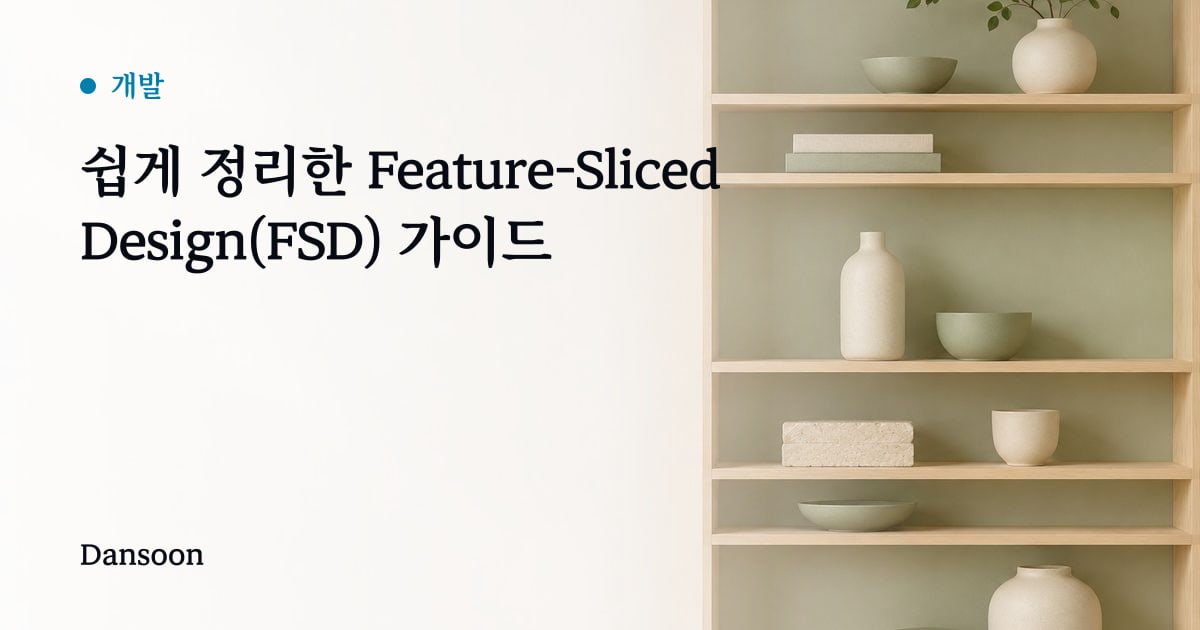
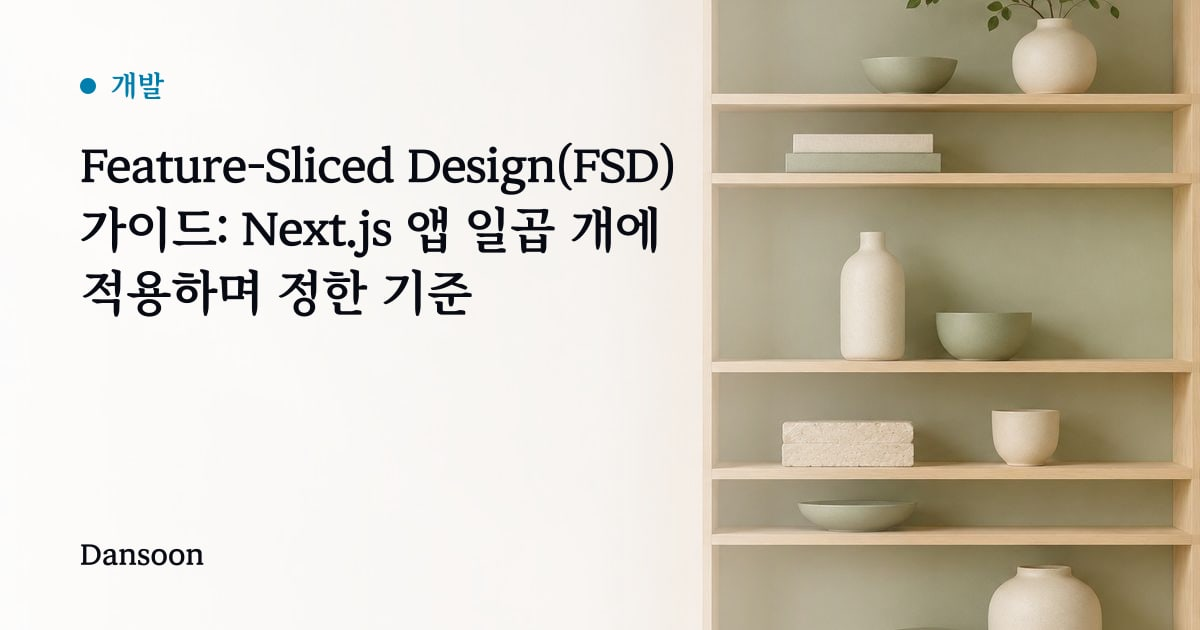
docs(dansoon): FSD 가이드를 지금 기준으로 다시 쓰기
- 일반론·중복 목록을 빼고 Next.js 앱 일곱 개에 쓰는 기준을 추가
- '의존성 역전' 오용 수정, 같은 레이어 슬라이스 교차 import 금지 규칙 추가
- 세그먼트 이름 규칙을 공식 문서 기준으로 수정(직접 만든 이름 허용, 목적 기준)
- 2026-06 공식 Next.js 가이드(_app·_pages), Next.js 16 proxy.ts, index.server.ts 반영
- FSD 글 6편 읽는 순서 추가, 제목 변경에 맞춰 썸네일 재생성

Changed region(s): [[0.0617, 0.2111, 0.6167, 0.5127]]

diff --git a/apps/dansoon/contents/posts/fsd-guide/index.md b/apps/dansoon/contents/posts/fsd-guide/index.md
@@ -1,8 +1,8 @@
 ---
-title: "쉽게 정리한 Feature-Sliced Design(FSD) 가이드"
-description: "Feature-Sliced Design의 레이어와 세그먼트, 의존성 규칙을 쉽게 정리하고, Next.js에 적용할 때 부딪힌 문제와 해결책을 함께 담았어요."
+title: "Feature-Sliced Design(FSD) 가이드: Next.js 앱 일곱 개에 적용하며 정한 기준"
+description: "FSD의 레이어·슬라이스·세그먼트와 import 규칙을 공식 문서 기준으로 정리하고, Next.js 앱 일곱 개에 적용하며 정한 기준과 부딪힌 문제를 담았어요. 2026년 바뀐 Next.js 가이드도 반영했어요."
 publishedAt: "2024-12-17T16:56:31+09:00"
-updatedAt: "2025-07-29T15:33:28+09:00"
+updatedAt: "2026-11-09T18:00:00+09:00"
 category: "dev"
 tags: ["fsd","architecture"]
 legacyUrl: "https://dansoon-dev.tistory.com/13"
@@ -10,295 +10,130 @@ thumbnail: "./thumbnail.jpg"
 cover: "./cover.jpg"
 ---
 
-## 들어가며
+> 2024년 12월에 쓴 글을 2026년 11월에 다시 썼다. 그사이 FSD는 2.1이 됐고, 공식 Next.js 가이드와 Next.js의 파일 규칙도 바뀌었다. 지금 쓰는 기준과 바뀐 내용을 반영했다.
 
-프론트엔드 프로젝트의 규모가 커지면 코드 구조화가 더 중요해진다. 기능을 구현하는 것만이 아니라, 시스템 아키텍처가 비즈니스 요구사항의 변화에 얼마나 유연하게 대응하는지가 프로젝트의 장기적 성공을 좌우한다. 이를 위해 구조화된 설계와 디자인 패턴을 적용하는 것이 프론트엔드 개발의 주요 흐름이 됐다.
+## 1. 왜 FSD였나
 
-컴포넌트 기반 아키텍처, 상태 관리 패턴, 모듈화 같은 접근 방식이 있지만 대규모 애플리케이션에서는 더 체계적인 구조화 방법론이 필요하다.
+2024년, 회사에서 PHP와 Vue로 만든 레거시 서비스를 Next.js로 옮기게 됐다. 기존 코드는 컴포넌트끼리 서로 깊게 얽혀 있었고, 같은 도메인 로직이 여러 곳에 흩어져 있었다. 새로 들어온 사람이 "이 기능은 어디를 고치면 되나"를 찾는 데만 한참 걸렸다.
 
-최근 PHP와 Vue로 작성된 레거시 애플리케이션을 Next.js로 마이그레이션하는 과정에서 우리 팀은 일관된 개발 패러다임을 확립하기 위해 Feature-Sliced Design(FSD) 방법론 도입을 결정하였다. FSD는 폴더 구조를 재배치하는 데 그치지 않고 비즈니스 도메인과 기술적 관심사를 분리하는 아키텍처 패러다임으로, React 생태계에서 검증된 확장성을 제공한다.
+옮기는 김에 폴더 구조의 기준부터 정하기로 했고, 그 기준으로 Feature-Sliced Design(FSD)을 골랐다. 폴더 이름과 import 방향을 규칙으로 정해 두면 "어디에 둘까"를 매번 토론하지 않아도 된다는 점이 컸다.
 
-FSD를 실제 프로젝트에 적용하면서 코드의 예측 가능성을 높이고 개발자 경험을 향상시켜, 비즈니스 요구사항에 더 빠르게 대응할 수 있는 기반을 마련하고자 한다. 특히 Next.js의 최신 기능과 FSD의 구조적 원칙을 결합해 성능과 유지보수성 모두를 최적화하는 아키텍처를 구축할 것이다.
+그 뒤로 개인 프로젝트 모노레포의 Next.js 앱 일곱 개도 전부 FSD로 나눴다. 아래 내용은 그 과정에서 정리한 것이다.
 
-## FSD란?
+## 2. 레이어 한눈에 보기
 
-Feature-Sliced Design은 프론트엔드 아키텍처 방법론으로, 비즈니스 로직을 기능(feature) 단위로 분할하고 계층화된 구조로 관리하는 접근 방식이다. 프로젝트의 복잡성을 관리하고, 코드의 재사용성과 유지보수성을 높이는 데 도움이 된다.
+FSD는 코드를 **레이어 → 슬라이스 → 세그먼트** 세 단계로 나눈다. 레이어는 위에서부터 이렇다.
 
-## 기본 원칙
+| 레이어 | 역할 | 예 |
+|---|---|---|
+| app | 앱 전역 설정 | 프로바이더, 전역 스타일 |
+| pages | 화면 하나 | 홈, 상품 상세 |
+| widgets | 여러 화면에서 쓰는 큰 UI 블록 | 헤더, 상품 목록 |
+| features | 사용자가 하는 행동 단위 기능 | 장바구니 담기, 필터 |
+| entities | 비즈니스 개념 | 상품, 사용자 |
+| shared | 도메인과 무관한 공용 코드 | UI 기본 요소, API 클라이언트 |
 
-1.  **책임 분리**: 각 레이어와 슬라이스는 명확한 책임을 가지며, 한 가지 일만 수행한다.
-2.  **의존성 역전**: 상위 레이어는 하위 레이어에 의존할 수 있지만, 그 반대는 불가능하다.
-3.  **공유 영역 제한**: shared 폴더는 신중하게 관리되어야 하며, 무분별한 공유를 지양한다.
-4.  **기능 격리**: 각 기능은 독립적으로 개발, 테스트, 재사용될 수 있어야 한다.
+예전에 있던 processes 레이어는 지금 폐지됐다. 공식 문서는 레이어 의미가 표준화돼 있으니 새 레이어를 추가하지 말라고 한다([Layers](https://fsd.how/docs/reference/layers/)).
 
-## FSD 도입 배경
+레이어 안은 **슬라이스**로 나뉜다. 슬라이스는 `product`, `cart`처럼 비즈니스 도메인으로 이름을 짓고, 이름 규칙은 따로 없다. 슬라이스 안은 다시 **세그먼트**로 나뉜다. 표준 세그먼트는 `ui`, `api`, `model`, `lib`, `config`이고, 필요하면 직접 만들어도 된다. 대신 이름은 내용물의 종류가 아니라 목적을 나타내야 한다. 공식 문서는 `components`, `hooks`, `types`를 나쁜 이름의 예로 든다([Slices and segments](https://fsd.how/docs/reference/slices-segments/)).
 
-### 기존 시스템 구조의 한계점
+2.1에서 화면을 나누는 기준이 Feature 중심에서 Page-first로 바뀐 이야기는 [FSD 2.1은 무엇이 달라졌을까?](/posts/fsd-2-1/)에, 2026년 공식 문서가 widgets와 entities를 줄이라고 권하게 된 이야기는 [FSD는 왜 Widgets 레이어를 권하지 않게 됐을까](/posts/fsd-2026-widgets/)에 정리했다.
 
--   컴포넌트 간 결합도 증가로 인한 낮은 모듈 재사용성
--   비즈니스 도메인 기준 응집도 저하 및 책임 분산
--   복잡한 의존성 그래프로 인한 신규 개발자 온보딩 지연
--   도메인 로직과 표현 계층 간 명확한 경계 부재로 인한 테스트 어려움
--   상태 관리 패턴의 비일관성으로 예측 불가능한 데이터 흐름
+## 3. import 규칙
 
-### FSD 도입 기대효과
+FSD에서 가장 중요한 규칙은 하나다.
 
--   계층 기반 아키텍처와 명확한 의존성 방향을 통한 코드 탐색성 최적화
--   슬라이스별 독립적 컴포넌트 설계로 재사용성 극대화
--   도메인 중심 비즈니스 로직 캡슐화 및 관심사 분리 강화
--   선언적 API 설계 및 일관된 폴더 구조로 개발자 경험(DX) 향상
--   마이크로 프론트엔드로의 전환 용이성 확보
+> 슬라이스 안의 모듈은 자기보다 **엄격하게 아래** 레이어에 있는 슬라이스만 import할 수 있다.
 
-### 한계점 요약
+예전 글에서는 이 규칙을 '의존성 역전'이라고 불렀는데 틀린 이름이었다. 의존성 역전은 추상화로 의존 방향을 뒤집는 설계 원칙이고, FSD 규칙은 단순히 위에서 아래로만 의존하게 하는 단방향 규칙이다. 공식 문서도 "레이어의 import 규칙"이라고 부른다.
 
--   컴포넌트와 로직의 낮은 재사용성
--   기능 단위의 낮은 응집도
--   새로운 팀원의 긴 온보딩 시간
--   비즈니스 로직과 UI 로직의 모호한 경계
+"엄격하게 아래"라는 말에는 규칙 하나가 더 숨어 있다. **같은 레이어의 다른 슬라이스끼리는 import할 수 없다.** `features/cart`가 `features/filter`를 가져다 쓰면 안 된다. 예전 글에는 이 규칙이 빠져 있었다. 엔티티끼리 정말 서로 알아야 할 때를 위해 공식 문서는 `@x` 표기로 교차 import용 공개 API를 따로 두는 방법을 안내한다.
 
-### 기대효과 요약
+예외는 app과 shared다. 두 레이어는 슬라이스 없이 세그먼트로만 이뤄져서, 안에서는 서로 자유롭게 import할 수 있다.
 
--   명확한 계층 구조를 통한 코드 탐색성 향상
--   재사용 가능한 컴포넌트의 체계적 관리
--   비즈니스 로직의 명확한 분리
--   일관된 구조를 통한 개발 생산성 향상
+## 4. 내가 정한 기준
 
-## FSD의 핵심 레이어 구조
+공식 규칙만으로는 매번 판단이 갈리는 부분이 남았다. 지금 모노레포에서 쓰는 기준은 이렇다.
 
-아래는 FSD 2.0 기준의 레이어 설명이다. 2.1에서 달라진 분해 기준은 [FSD 2.1은 무엇이 달라졌을까?](/posts/fsd-2-1/)에서 비교했다.
+**Next.js 라우팅과 FSD app 레이어를 나눈다.** 루트의 `app/`은 Next.js 라우팅 진입점으로, `page.tsx`·`layout.tsx`만 얇게 두고 화면은 FSD 쪽에 맡긴다. FSD `app` 레이어는 `src/app/`에 두고 프로바이더와 전역 스타일만 넣는다. 둘을 합치면 라우팅 파일과 전역 설정이 한 폴더에서 섞인다.
 
-### app
+**pages 레이어는 `views`라고 부른다.** Next.js는 App Router를 써도 `src/pages` 폴더가 있으면 Pages Router로 읽으려 한다. 그래서 FSD pages 레이어의 이름을 처음부터 `views`로 바꿨다.
 
-애플리케이션의 핵심 설정을 담당하는 최상위 계층이다.
+**필요한 레이어만 만든다.** 레이어 여섯 개를 다 만들어 두지 않는다. 지금 앱 일곱 개의 `src/` 아래를 보면 이렇다.
 
--   전역 상태 관리
--   라우팅 설정
--   스타일 테마 설정
--   다국어 처리 등 앱 전반의 기능 구성
+| 앱 | 있는 레이어 |
+|---|---|
+| design | app, views |
+| komorebi | app, views, features, shared |
+| hub | app, views, widgets, entities |
+| soundlab | app, views, widgets, entities, shared |
+| awesome-sudoku, fe-deep, prairie | app, views, widgets, features, entities, shared |
 
-### pages
+**공유 디자인 시스템이 shared UI를 맡는다.** 버튼 같은 표시용 기본 요소는 모노레포의 UI 패키지에서 가져오고, 앱의 `src/shared`에는 그 앱에서만 쓰는 공용 코드만 둔다.
 
-실제 라우팅되는 페이지 컴포넌트들의 집합이다.
+**import는 세그먼트까지만 한다.** `@widgets/project-grid/ui`처럼 경로에 `ui`인지 `model`인지가 항상 보이게 하고, 그보다 깊은 파일을 직접 가져오지 않는다. 슬라이스 전체를 한 번에 내보내는 통합 `index.ts`는 일부러 만들지 않는다. 없어야 슬라이스 루트에서 import하는 코드가 컴파일 에러로 바로 막힌다. alias와 barrel 패턴 자체는 [import 경로 관리 알아보기](/posts/import-path-alias-barrel-fsd/)에 정리했다.
 
--   하위 레이어의 위젯과 피처들을 조합
--   페이지별 레이아웃 관리
--   데이터 흐름 제어
+**전역 상태는 entities에 둔다.** 전역 상태가 꼭 필요하면 `entities/<도메인>/model/store/`에 두고, 쓰는 컴포넌트가 직접 구독한다.
 
-### widgets
+이 규칙들은 처음에 문서로만 적어 뒀는데, 새 코드를 쓸 때마다 어긋났다. 지금은 공유 ESLint 설정으로 막는다. 그 과정은 [FSD 규칙을 문서 대신 ESLint로 강제하기](/posts/fsd-eslint-boundaries/)에 있다.
 
-독립적으로 재사용 가능한 큰 단위의 UI 블록이다.
+## 5. Next.js에 적용하며 부딪힌 문제
 
--   여러 피처들의 조합으로 구성
--   예: 헤더, 푸터, 상품 목록 위젯
+### app·pages 폴더 이름 충돌
 
-### features
+Next.js는 `app` 폴더를 App Router로, `pages` 폴더를 Pages Router로 쓴다. FSD 레이어 이름과 정확히 겹친다.
 
-특정 비즈니스 기능을 캡슐화한다.
-
--   UI와 비즈니스 로직이 결합된 형태
--   예: 상품 필터링, 장바구니 추가 기능
-
-### entities
-
-핵심 비즈니스 엔티티 관련 로직을 포함한다.
-
--   도메인 모델과 타입 정의
--   엔티티 관련 API 통신 로직
-
-### shared
-
-프로젝트 전반에서 공유되는 유틸리티를 포함한다.
-
--   공통 UI 컴포넌트
--   API 클라이언트
--   상수 및 유틸리티 함수
-
-## 세그먼트 구조화 전략
-
-각 레이어는 ui, model, api, lib 세그먼트로 구조화된다.
-
-### ui
-
--   순수 표현 컴포넌트
--   스타일링 관련 코드
--   상태나 비즈니스 로직 배제
-
-### model
-
--   상태 관리 로직 (React Query, Zustand 등)
--   타입 정의
--   유효성 검증 로직
-
-### api
-
--   API 통신 관련 코드
--   데이터 변환 로직
--   에러 핸들링
-
-### lib
-
--   유틸리티 함수
--   헬퍼 함수
--   비즈니스 로직과 무관한 순수 함수
-
-## 프로젝트 구조 예시
+2024년에 따른 방법은 당시 공식 가이드와 같았다. Next.js의 `app/`을 프로젝트 루트로 빼고, FSD 레이어는 `src/` 아래에 둔다. 공식 가이드는 여기에 더해 루트에 빈 `pages/` 폴더를 하나 두라고 했다. 그래야 Next.js가 `src/pages`를 Pages Router로 착각하지 않는다.
 
 ```text
-src/
-├── app/
-│   ├── providers/
-│   ├── styles/
-│   └── index.tsx
-├── pages/
-│   ├── home/
-│   ├── products/
-│   └── index.tsx
-├── widgets/
-│   ├── header/
-│   │   ├── ui/
-│   │   ├── model/
-│   │   └── lib/
-│   └── product-list/
-├── features/
-│   ├── product-filter/
-│   │   ├── ui/
-│   │   ├── model/
-│   │   ├── api/
-│   │   └── lib/
-│   └── add-to-cart/
-├── entities/
-│   ├── product/
-│   │   ├── ui/
-│   │   ├── model/
-│   │   ├── api/
-│   │   └── lib/
-│   └── user/
-└── shared/
-    ├── ui/
-    ├── api/
-    ├── lib/
-    └── config/
-```
-
-## 구현 가이드라인
-
-### 레이어 간 의존성 규칙
-
--   상위 레이어는 하위 레이어만 참조 가능
--   순환 참조는 절대 금지
--   shared 레이어는 모든 레이어에서 참조 가능
--   레이어와 세그먼트의 이름은 변경 불가
-
-### 세그먼트 활용 원칙
-
--   ui: 순수 표현 컴포넌트만 포함
--   model: 상태 관리와 비즈니스 로직 집중
--   api: 외부 통신 관련 로직 격리
--   lib: 재사용 가능한 유틸리티 함수 모음
-
-### 네이밍 컨벤션
-
--   폴더명: 케밥-케이스 사용 (예: product-list)
--   파일명: 파스칼케이스(컴포넌트), 기타파일명: 카멜케이스 (api, util)
--   index.ts 파일을 통한 캡슐화 (alias와 barrel 패턴은 [import 경로 관리 알아보기](/posts/import-path-alias-barrel-fsd/) 참고)
-
-## Next.js에 FSD를 적용할 때 유의할 점
-
-### app 폴더 이름 충돌
-
-**문제점**
-
--   app router의 경우 app폴더를 경로로 사용한다.
--   반면 FSD 패턴에서 app 레이어는 애플리케이션 전반에 걸쳐 사용되는 provider, 전역스타일을 포함
-
-**해결**
-
-```text
-├── app/ # Next.js app directory
-└── src/ # FSD layers
-    ├── app/
-    └── widget/
-    └── feature/
-    └── widget/
-    └── shared/
-```
-
-### middleware 인식 오류
-
-**문제점**
-
--   Next.js에서 middleware는 요청과 응답 사이에 실행되는 로직을 정의할 수 있는 중요한 파일
--   FSD 레이어에 위치하게 되면 Next.js가 이를 미들웨어로 인식하지 않음
-
-**해결**
-
-```text
-├── app/ # Next.js app directory
-├── middleware.ts # 루트 디렉토리에서 바로 작성해야 인식
-└── src/ # FSD layers
-    ├── app/
-    └── widget/
-    └── feature/
-    └── widget/
-    └── shared/
-```
-
-### Public API 적용 시 코드 실행 환경 오류
-
-**문제점**
-
--   import한 파일을 모두 읽는 JS모듈 시스템의 실행 방식으로 인해 서버/클라이언트 실행환경 불일치
--   위 경우 클라이언트에서 서버 구성요소 사용 에러 발생
-
-**해결**
-
-```text
-├── app/ # Next.js app directory
-└── shared/ # FSD layers
-    ├── server-utils/
-    └── utils/
-```
-
-### Next.js의 폴더 구조 예시
-
-```text
-├── app/
-├── └── layout.tsx
-├── └── page.tsx
+├── app/          # Next.js 라우팅
 ├── src/
-├── └── pages/
-├── └── widgets/
-├── └── features/
-├── └── entities/
-├── └── shared/
-├── middleware.ts
-├── tsconfig.json
-├── package.json
-└── ...
+│   ├── app/      # FSD app 레이어
+│   ├── views/    # FSD pages 레이어(이름 변경)
+│   ├── widgets/
+│   ├── features/
+│   ├── entities/
+│   └── shared/
+└── package.json
 ```
 
-### 정적 리소스 관리
+2026년 6월 공식 Next.js 가이드가 바뀌었다. 이제는 빈 폴더를 두는 대신 FSD 레이어 이름 자체를 `_app`, `_pages`로 바꾸라고 권한다. 어떤 라우터를 쓰든 두 레이어 모두 바꾸라는 것이다([Usage with Next.js](https://fsd.how/docs/guides/tech/with-nextjs/)). 나는 처음부터 이름을 바꾸는 쪽(`views`)이었는데, 공식 가이드도 같은 방향으로 바뀐 셈이다. 다만 공식 이름은 `views`가 아니라 `_pages`다. 2026년 11월 현재 한국어판 가이드에는 아직 반영되지 않았다.
 
-**문제점**
+정리하면 지금 쓰이는 방법은 세 가지다.
 
--   font와 image같은 정적 리소스는 크게 두가지 방식으로 관리할 수 있다.
--   shared 레이어 내부에서 관리하는 경우와 기능별로 분산 관리하는 경우가 있다.
+| 방법 | 구조 | 특징 |
+|---|---|---|
+| 빈 `pages/` 폴더 | 루트에 `app/`과 빈 `pages/`, FSD는 `src/`에 표준 이름 그대로 | 2026년 6월 이전 공식 권장. 용도를 모르는 빈 폴더가 남는다 |
+| `views`로 이름 변경 | 루트 `app/`, FSD pages 레이어만 `src/views/` | 내가 쓰는 방법. 커뮤니티에서 많이 쓰지만 공식 이름은 아니다 |
+| `_app`·`_pages` 접두사 | FSD `app`·`pages` 레이어 둘 다 이름 앞에 `_` | 2026년 6월 이후 공식 권장 |
 
-**해결**
+### middleware 위치
 
-```bash
-└── web
-    ├── public/        # 웹 전용 정적 리소스
-    │   ├── fonts/     # 폰트 파일 실제 위치
-    │   └── static/
-    │       └── images/
-    ├── app/
-    │   └── home/
-    │   src/
-    │   └── features/
-    │       └── product/
-    │           └── assets/  # 기능별 리소스
-    └── package.json
-```
+Next.js는 요청을 가로채는 파일을 정해진 위치에서만 찾는다. FSD 레이어 안에 두면 인식하지 않으므로 루트(`app/`과 같은 위치)에 둬야 한다.
 
-2026년 공식 문서에서 바뀐 내용은 [FSD는 왜 Widgets 레이어를 권하지 않게 됐을까](/posts/fsd-2026-widgets/)에, 이 규칙을 ESLint로 강제하는 방법은 [FSD 규칙을 문서 대신 ESLint로 강제하기](/posts/fsd-eslint-boundaries/)에 정리했다.
+이 파일 이름도 바뀌었다. Next.js 16부터 `middleware.ts`는 `proxy.ts`로 이름이 바뀌었고, 예전 이름을 쓰면 deprecated 경고가 뜬다.
+
+### Public API가 서버 코드를 클라이언트로 끌고 오는 문제
+
+슬라이스마다 `index.ts`로 공개할 것만 내보내면, 클라이언트 컴포넌트가 그 `index.ts`를 import할 때 같은 파일에서 내보낸 서버 전용 코드까지 함께 읽힌다. 서버 전용 모듈을 클라이언트에서 쓴다는 에러가 여기서 났다.
+
+2024년에는 shared 안에 `server-utils/`와 `utils/`를 따로 두는 식으로 피했다. 지금 공식 가이드는 슬라이스에 `index.server.ts`를 하나 더 두라고 한다. 서버 컴포넌트나 `server-only`로 표시한 데이터 접근 함수는 거기서만 내보내는 방식이다. 서버 코드를 shared로 따로 빼지 않고 슬라이스 안에 그대로 둘 수 있다는 점이 다르다.
+
+### 정적 리소스
+
+폰트·이미지 같은 정적 파일은 shared 한곳에 모을 수도 있고 기능별로 나눌 수도 있다. 나는 폰트처럼 앱 전체에서 쓰는 파일은 `public/`에 두고, 특정 기능에서만 쓰는 이미지는 그 슬라이스 안 `assets/`에 두는 쪽을 택했다.
+
+## 6. 지금 다시 보면
+
+가장 크게 어긋난 건 경계였다. 2.0 방식대로 Feature 중심으로 나눴더니 프로젝트 안의 경계가 갈수록 어지러워졌다. 지금은 2.1의 Page-first로 바꿨다. 코드는 처음에 화면(views) 안에 두고, 여러 곳에서 쓰게 되면 그때 아래 레이어로 내린다.
+
+규칙은 문서에 적어 두는 것만으로는 지켜지지 않았다. 새 코드마다 어긋나다가 lint로 막은 뒤에야 자리를 잡았다.
+
+## FSD 글 읽는 순서
+
+1. 이 글: 레이어·규칙과 내가 정한 기준
+2. [FSD 2.1은 무엇이 달라졌을까?](/posts/fsd-2-1/): Feature 중심에서 Page-first로
+3. [FSD는 왜 Widgets 레이어를 권하지 않게 됐을까](/posts/fsd-2026-widgets/): 2026년 공식 문서의 변화
+4. [FSD 규칙을 문서 대신 ESLint로 강제하기](/posts/fsd-eslint-boundaries/): 규칙을 lint로 막기
+5. [import 경로 관리 알아보기](/posts/import-path-alias-barrel-fsd/): alias와 barrel 패턴
+6. 처음 적용했을 때의 기록: [FSD 패턴으로 상태 관리 리팩토링하기](/posts/fsd-state-management-refactoring/), [MSW로 테스트 코드를 작성하며 FSD 구조 보완하기](/posts/test-code-fsd-refactoring/)
